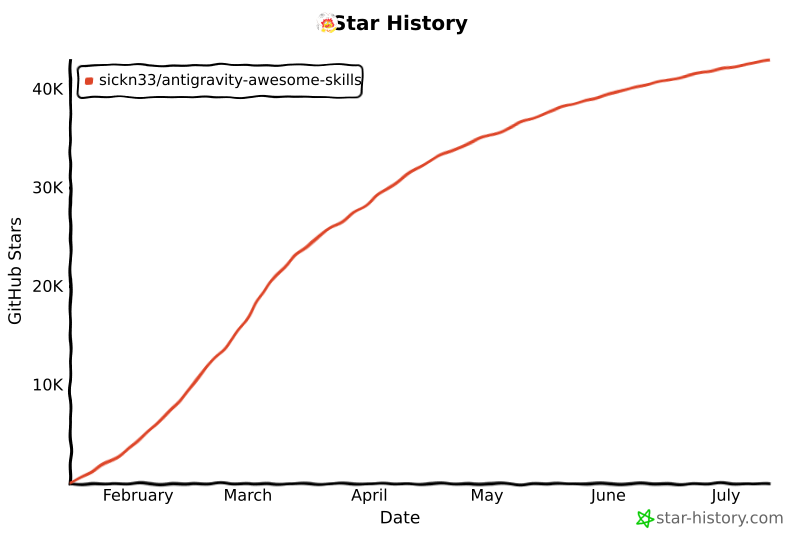
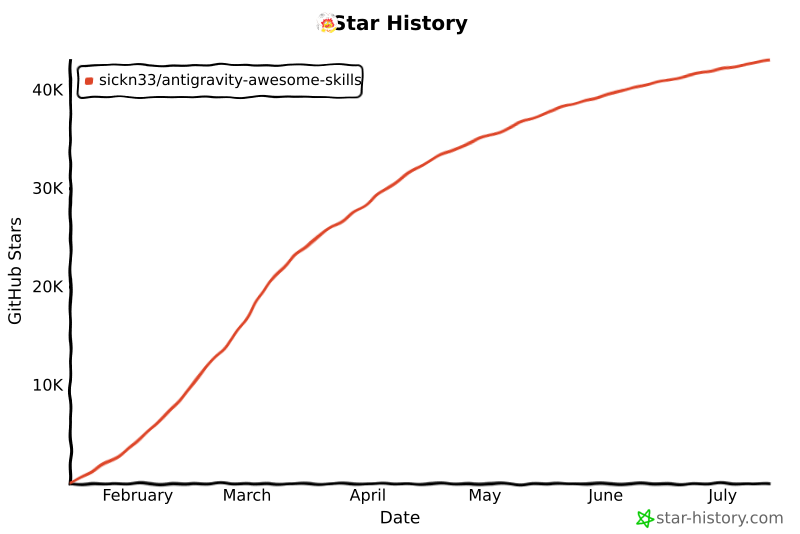
chore: update star history chart

diff --git a/README.md b/README.md
@@ -517,14 +517,14 @@ We officially thank the following contributors for their help in making this rep
 ## Star History
 
 <a href="https://www.star-history.com/#sickn33/antigravity-awesome-skills&type=date&legend=top-left">
- <img alt="Star History Chart" src="https://api.star-history.com/svg?repos=sickn33/antigravity-awesome-skills&type=date&legend=top-left&cache_bust=202607120814" />
+ <img alt="Star History Chart" src="https://api.star-history.com/svg?repos=sickn33/antigravity-awesome-skills&type=date&legend=top-left&cache_bust=202607130922" />
 </a>
 
 <a href="https://www.star-history.com/sickn33/antigravity-awesome-skills">
  <picture>
-   <source media="(prefers-color-scheme: dark)" srcset="https://api.star-history.com/chart?repos=sickn33/antigravity-awesome-skills&style=landscape1&theme=dark&cache_bust=202607120814" />
-   <source media="(prefers-color-scheme: light)" srcset="https://api.star-history.com/chart?repos=sickn33/antigravity-awesome-skills&style=landscape1&cache_bust=202607120814" />
-   <img alt="Star History Chart" src="https://api.star-history.com/chart?repos=sickn33/antigravity-awesome-skills&style=landscape1&cache_bust=202607120814" />
+   <source media="(prefers-color-scheme: dark)" srcset="https://api.star-history.com/chart?repos=sickn33/antigravity-awesome-skills&style=landscape1&theme=dark&cache_bust=202607130922" />
+   <source media="(prefers-color-scheme: light)" srcset="https://api.star-history.com/chart?repos=sickn33/antigravity-awesome-skills&style=landscape1&cache_bust=202607130922" />
+   <img alt="Star History Chart" src="https://api.star-history.com/chart?repos=sickn33/antigravity-awesome-skills&style=landscape1&cache_bust=202607130922" />
  </picture>
 </a>
 
